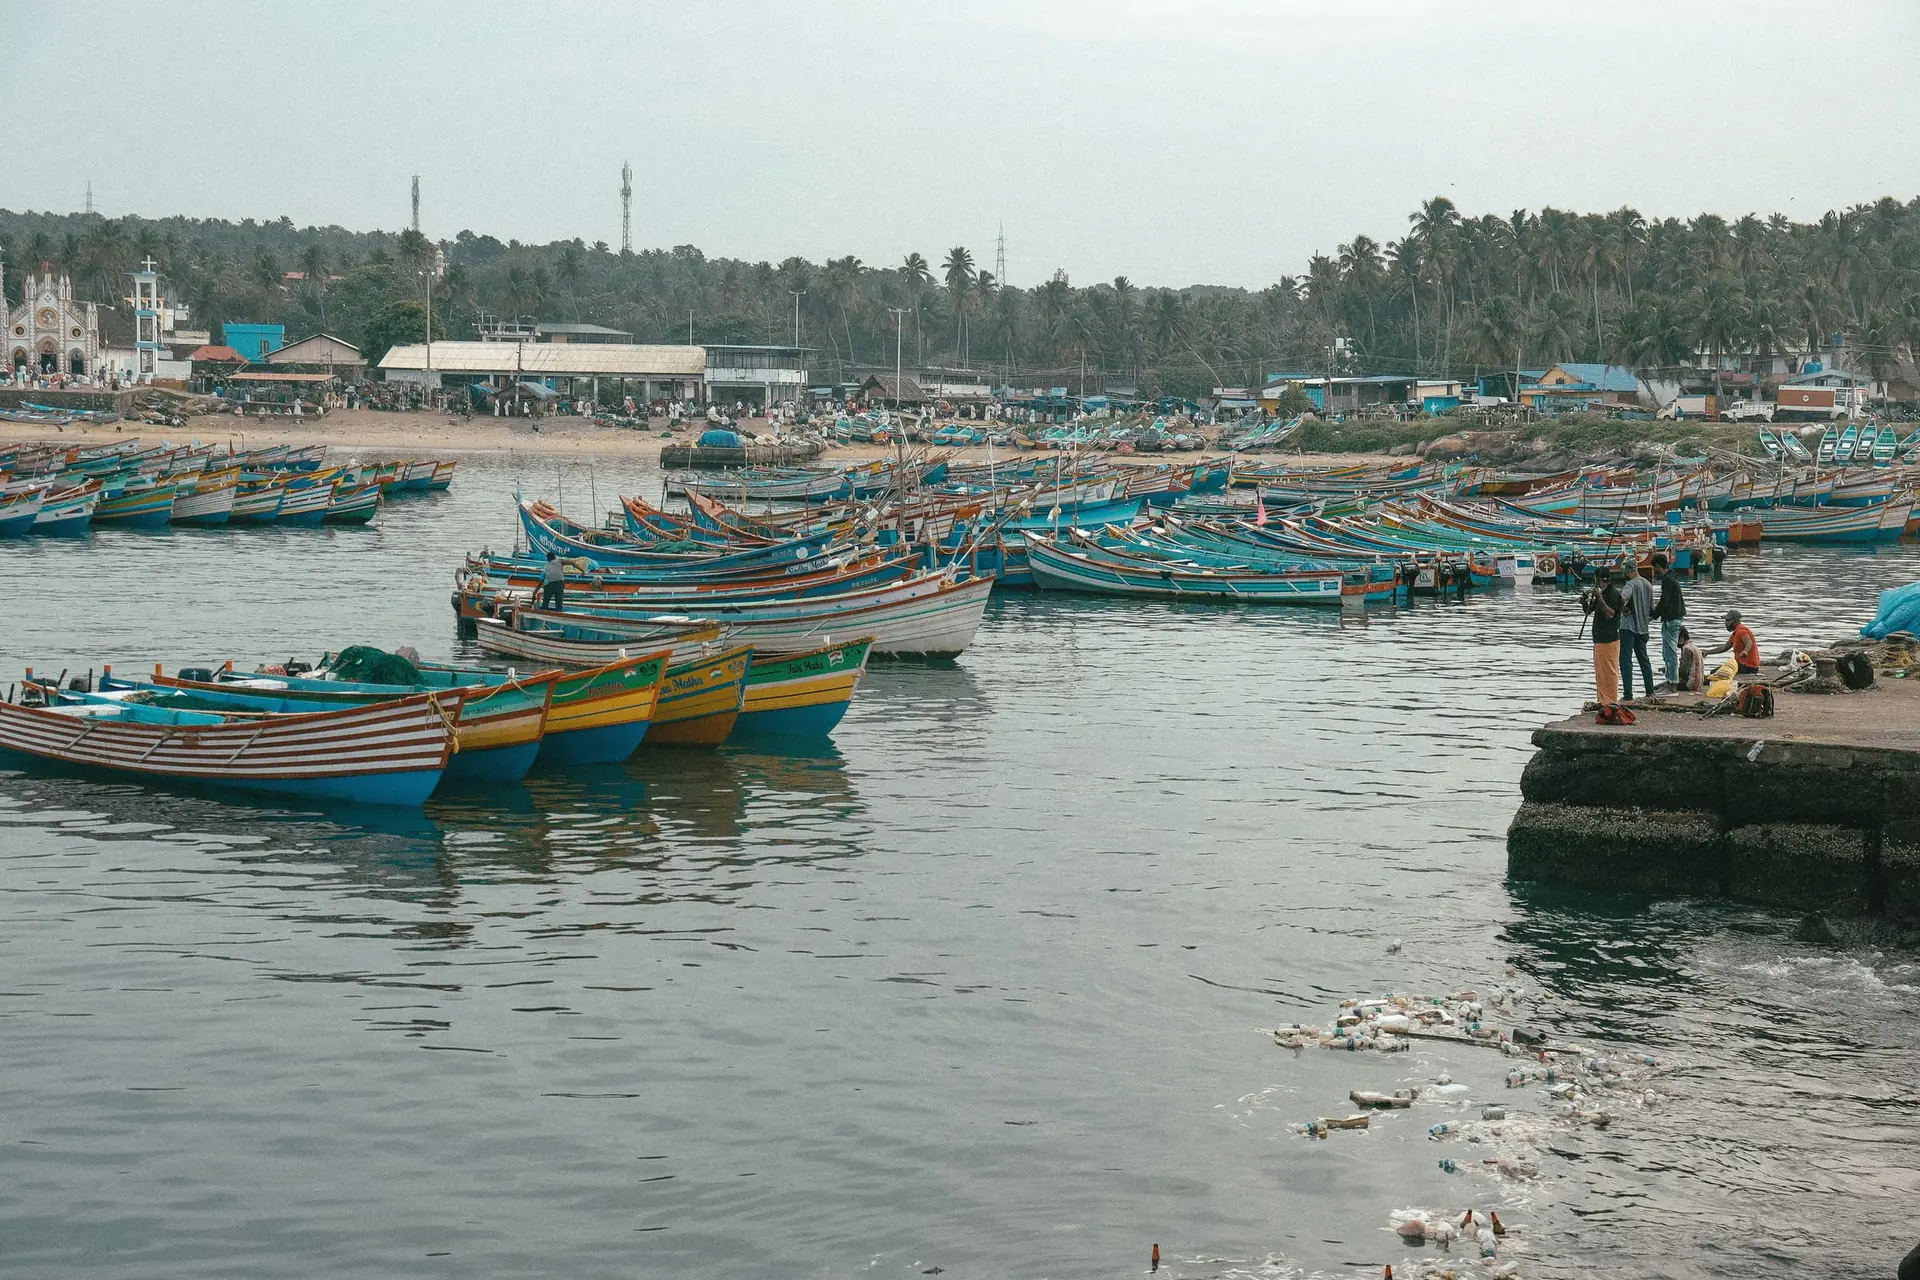
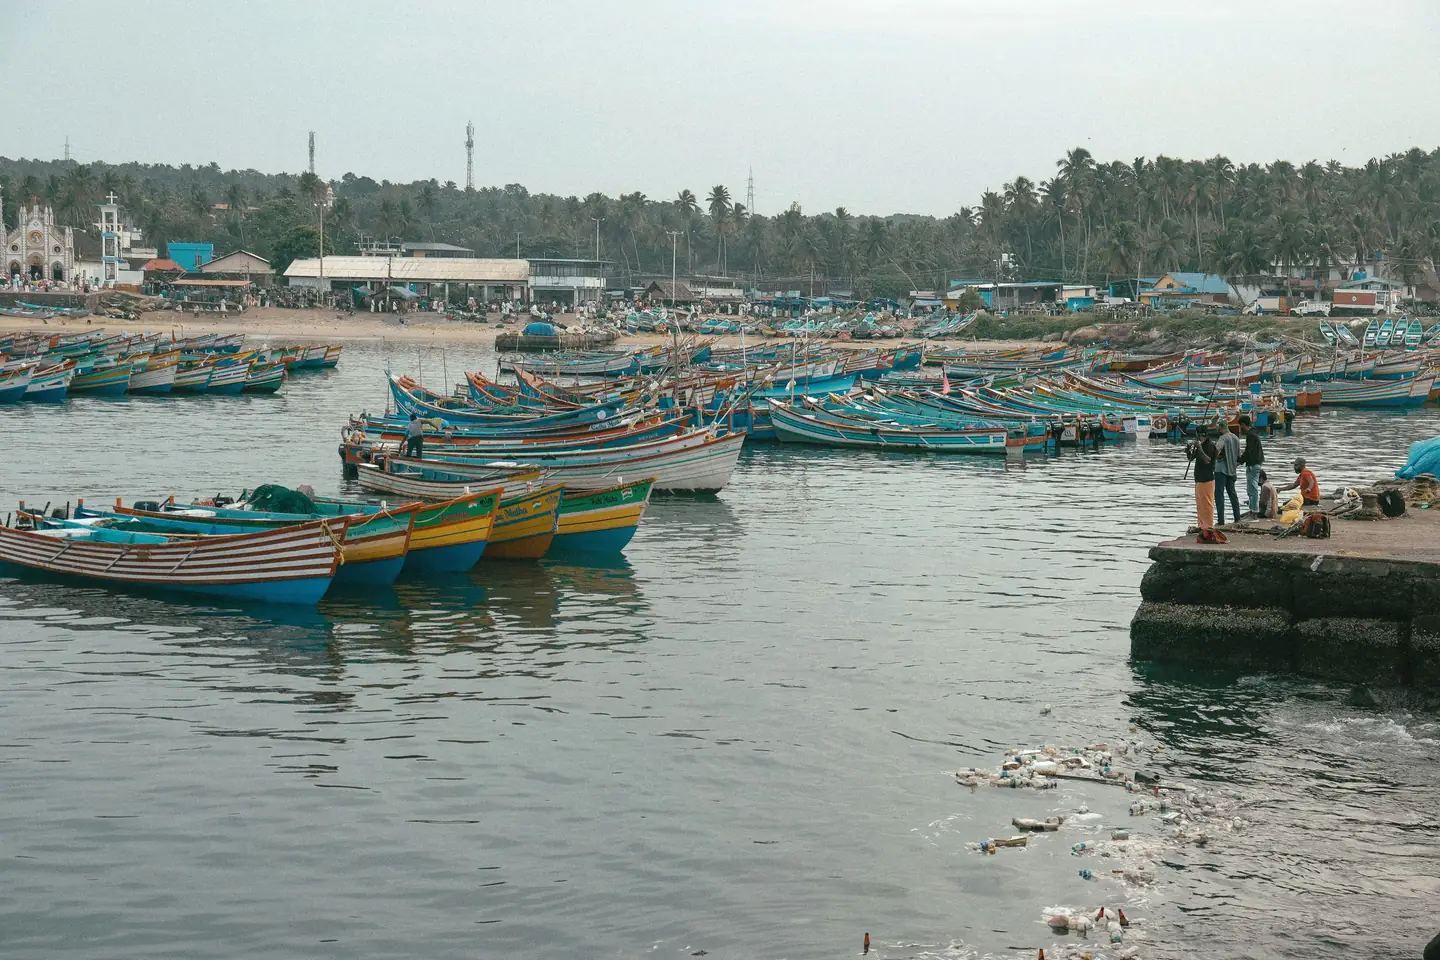
Perf: tighter hero compression + kenburns only on active slide
Lighthouse flagged 867 KiB of further image-delivery savings and
'Avoid non-composited animations' related to the H1 rise-in keyframe
(fixed earlier). Main remaining work is carousel load weight and
paint churn from the kenburns animation running on 5 slides at once.

- Recompressed all 5 hero WebPs to 1440w q=68 (1600w q=72 for LCP
  slide hero-1 to keep first-frame quality). Total hero payload
  drops from ~1370 KiB to ~822 KiB (-40%)
    hero-1  190 -> 150 KiB  (LCP slide, tighter: 1600w q72)
    hero-2  341 -> 176 KiB
    hero-3  459 -> 302 KiB  (was the worst offender)
    hero-4  305 -> 152 KiB
    hero-5   74 ->  44 KiB
- lr4e-kenburns now only runs on the active slide. Previously all 5
  slides ran a 20s scale animation in parallel even when opacity=0,
  which the compositor still tracks as active layers. Static
  inactive slides reduce GPU/compositor work during idle and the
  slide transitions

Note on the 66 Lighthouse score: FCP 0.5s, LCP 0.8s, CLS 0 are all
green. The score is dragged down by TBT 3.4s which is Lighthouse's
emulated-CPU hydration time, not a real user-experience issue. On a
real desktop the TBT on this page is closer to 50-100ms.

Changed region(s): [[0.6875, 0.4062, 0.7188, 0.4375]]

diff --git a/components/home/hero-section.tsx b/components/home/hero-section.tsx
@@ -67,8 +67,7 @@ export function HeroSection() {
               style={{ opacity: active ? 1 : 0 }}
             >
               <div
-                className="absolute inset-0 lr4e-kenburns"
-                style={{ animationDelay: `${-i * 6}s` }}
+                className={`absolute inset-0 ${active ? "lr4e-kenburns" : ""}`}
               >
                 <Image
                   src={src}
